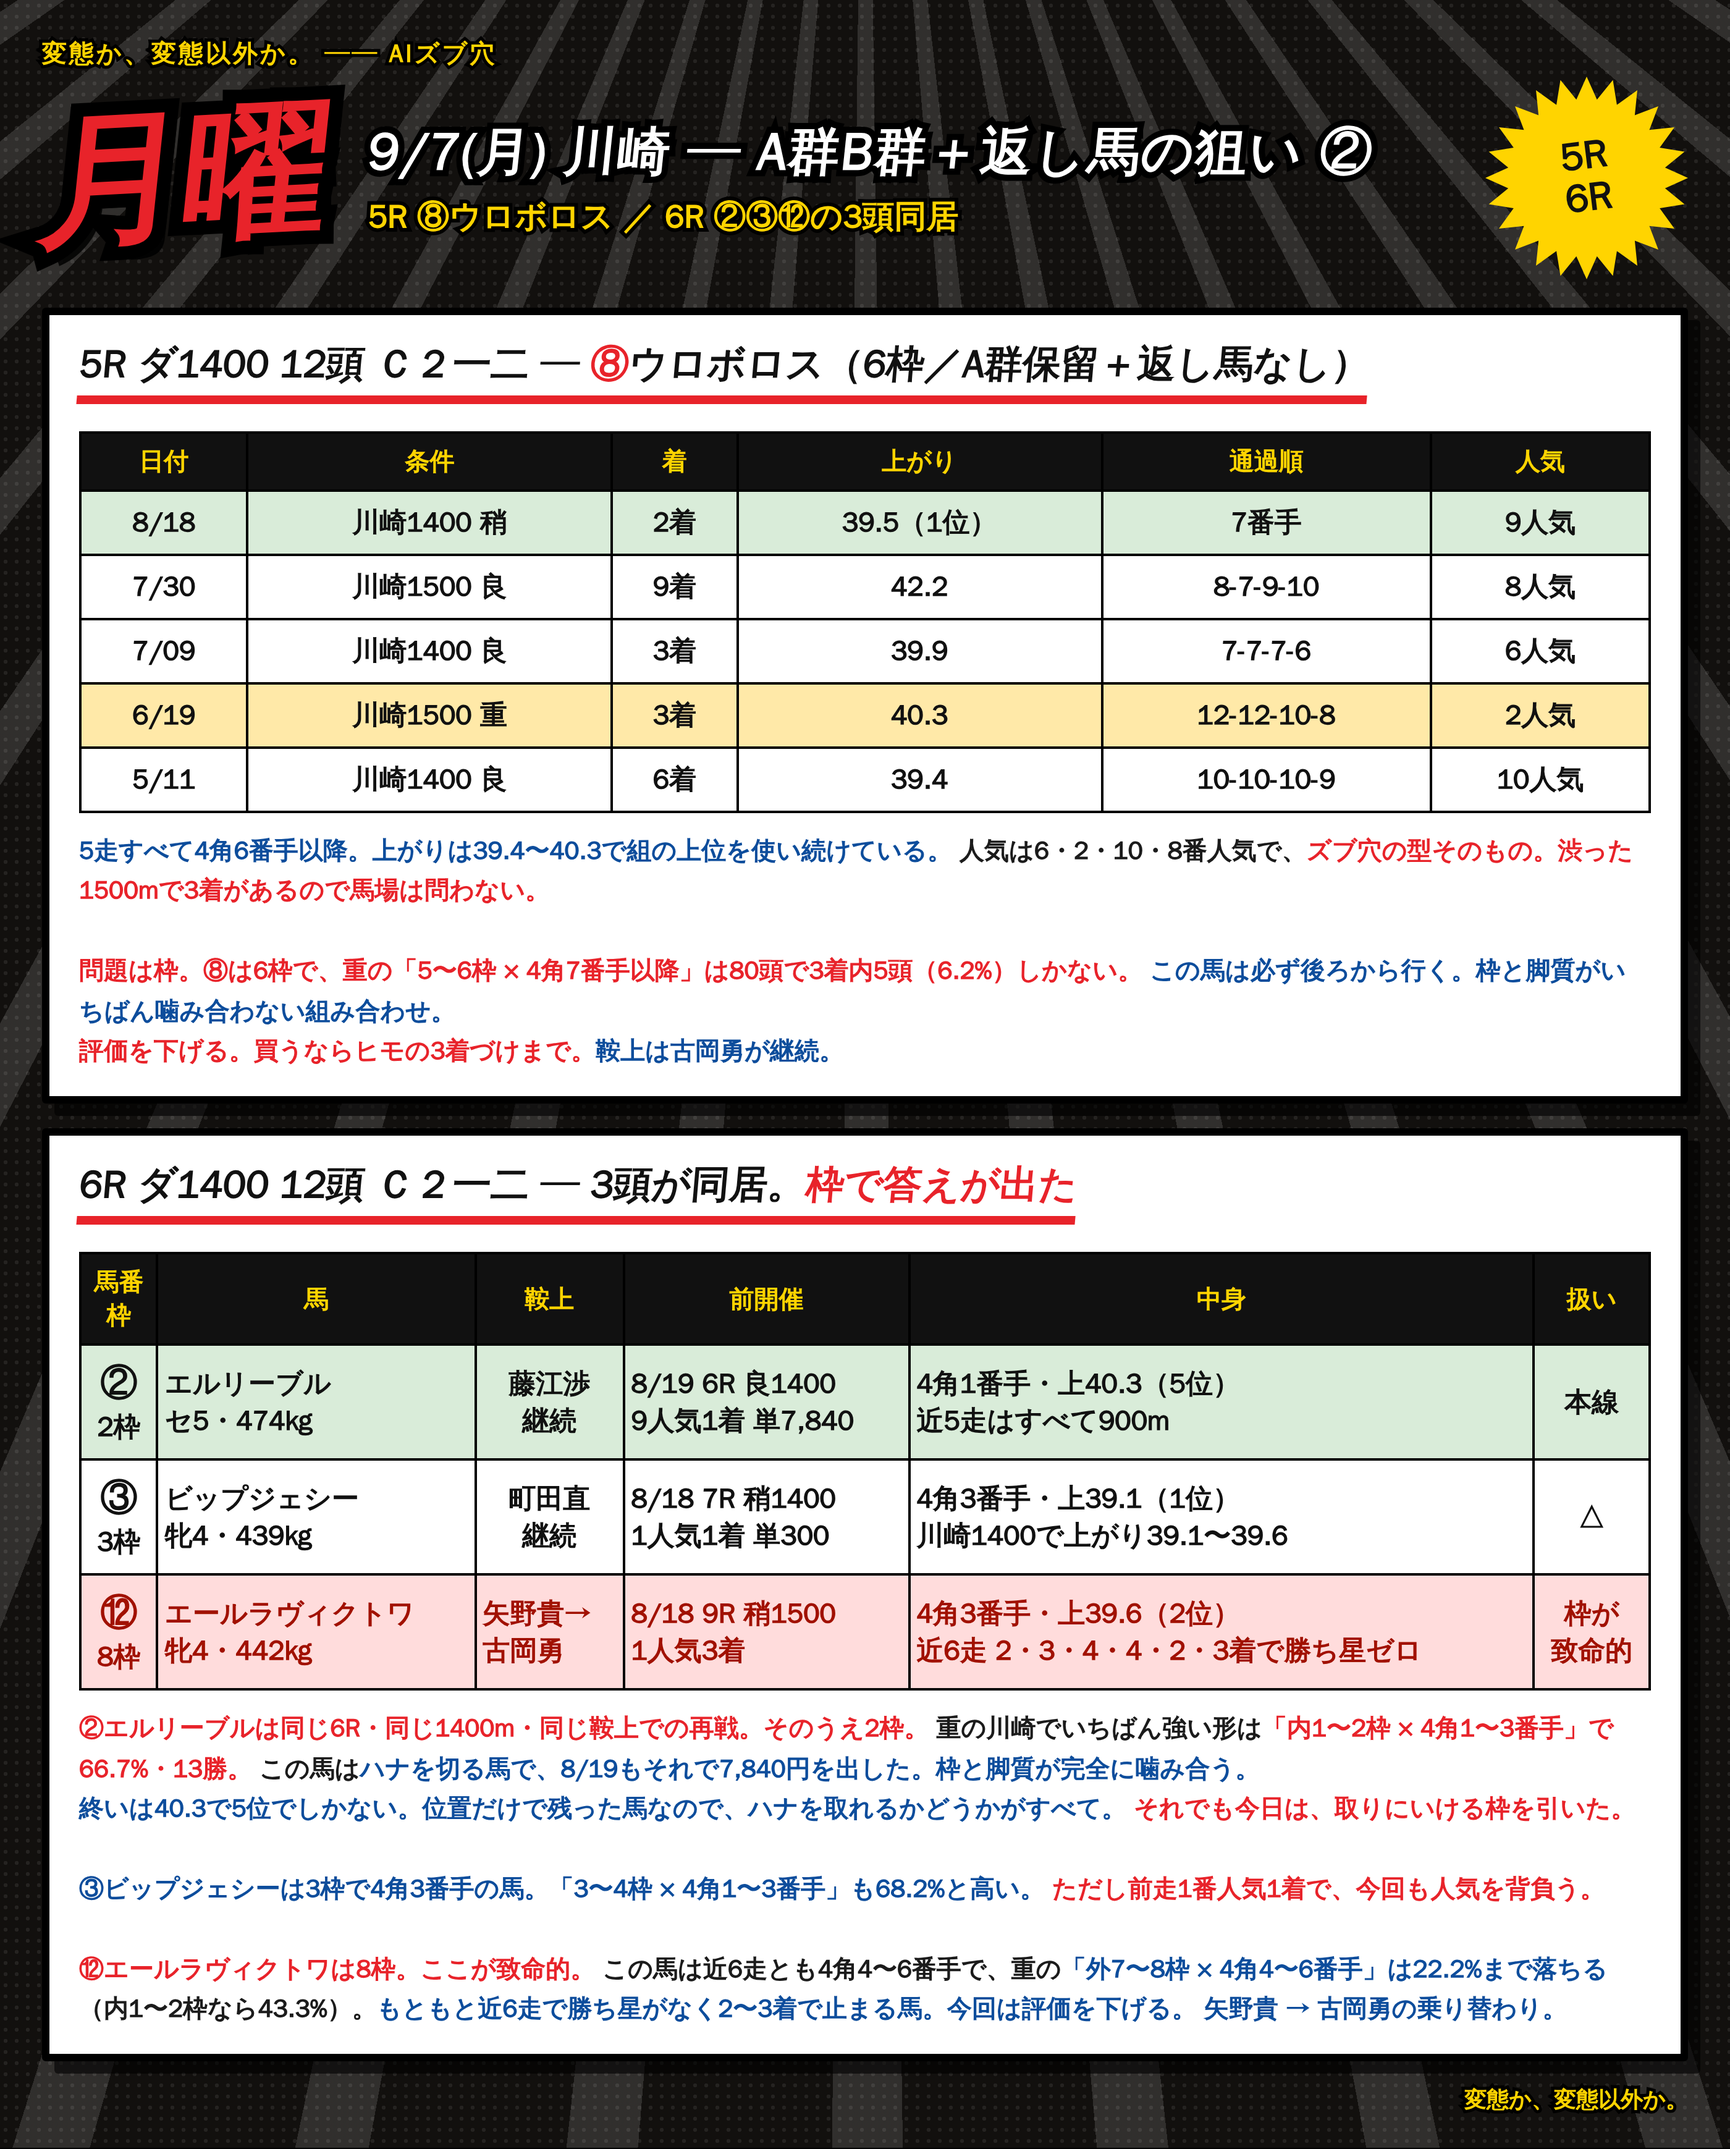
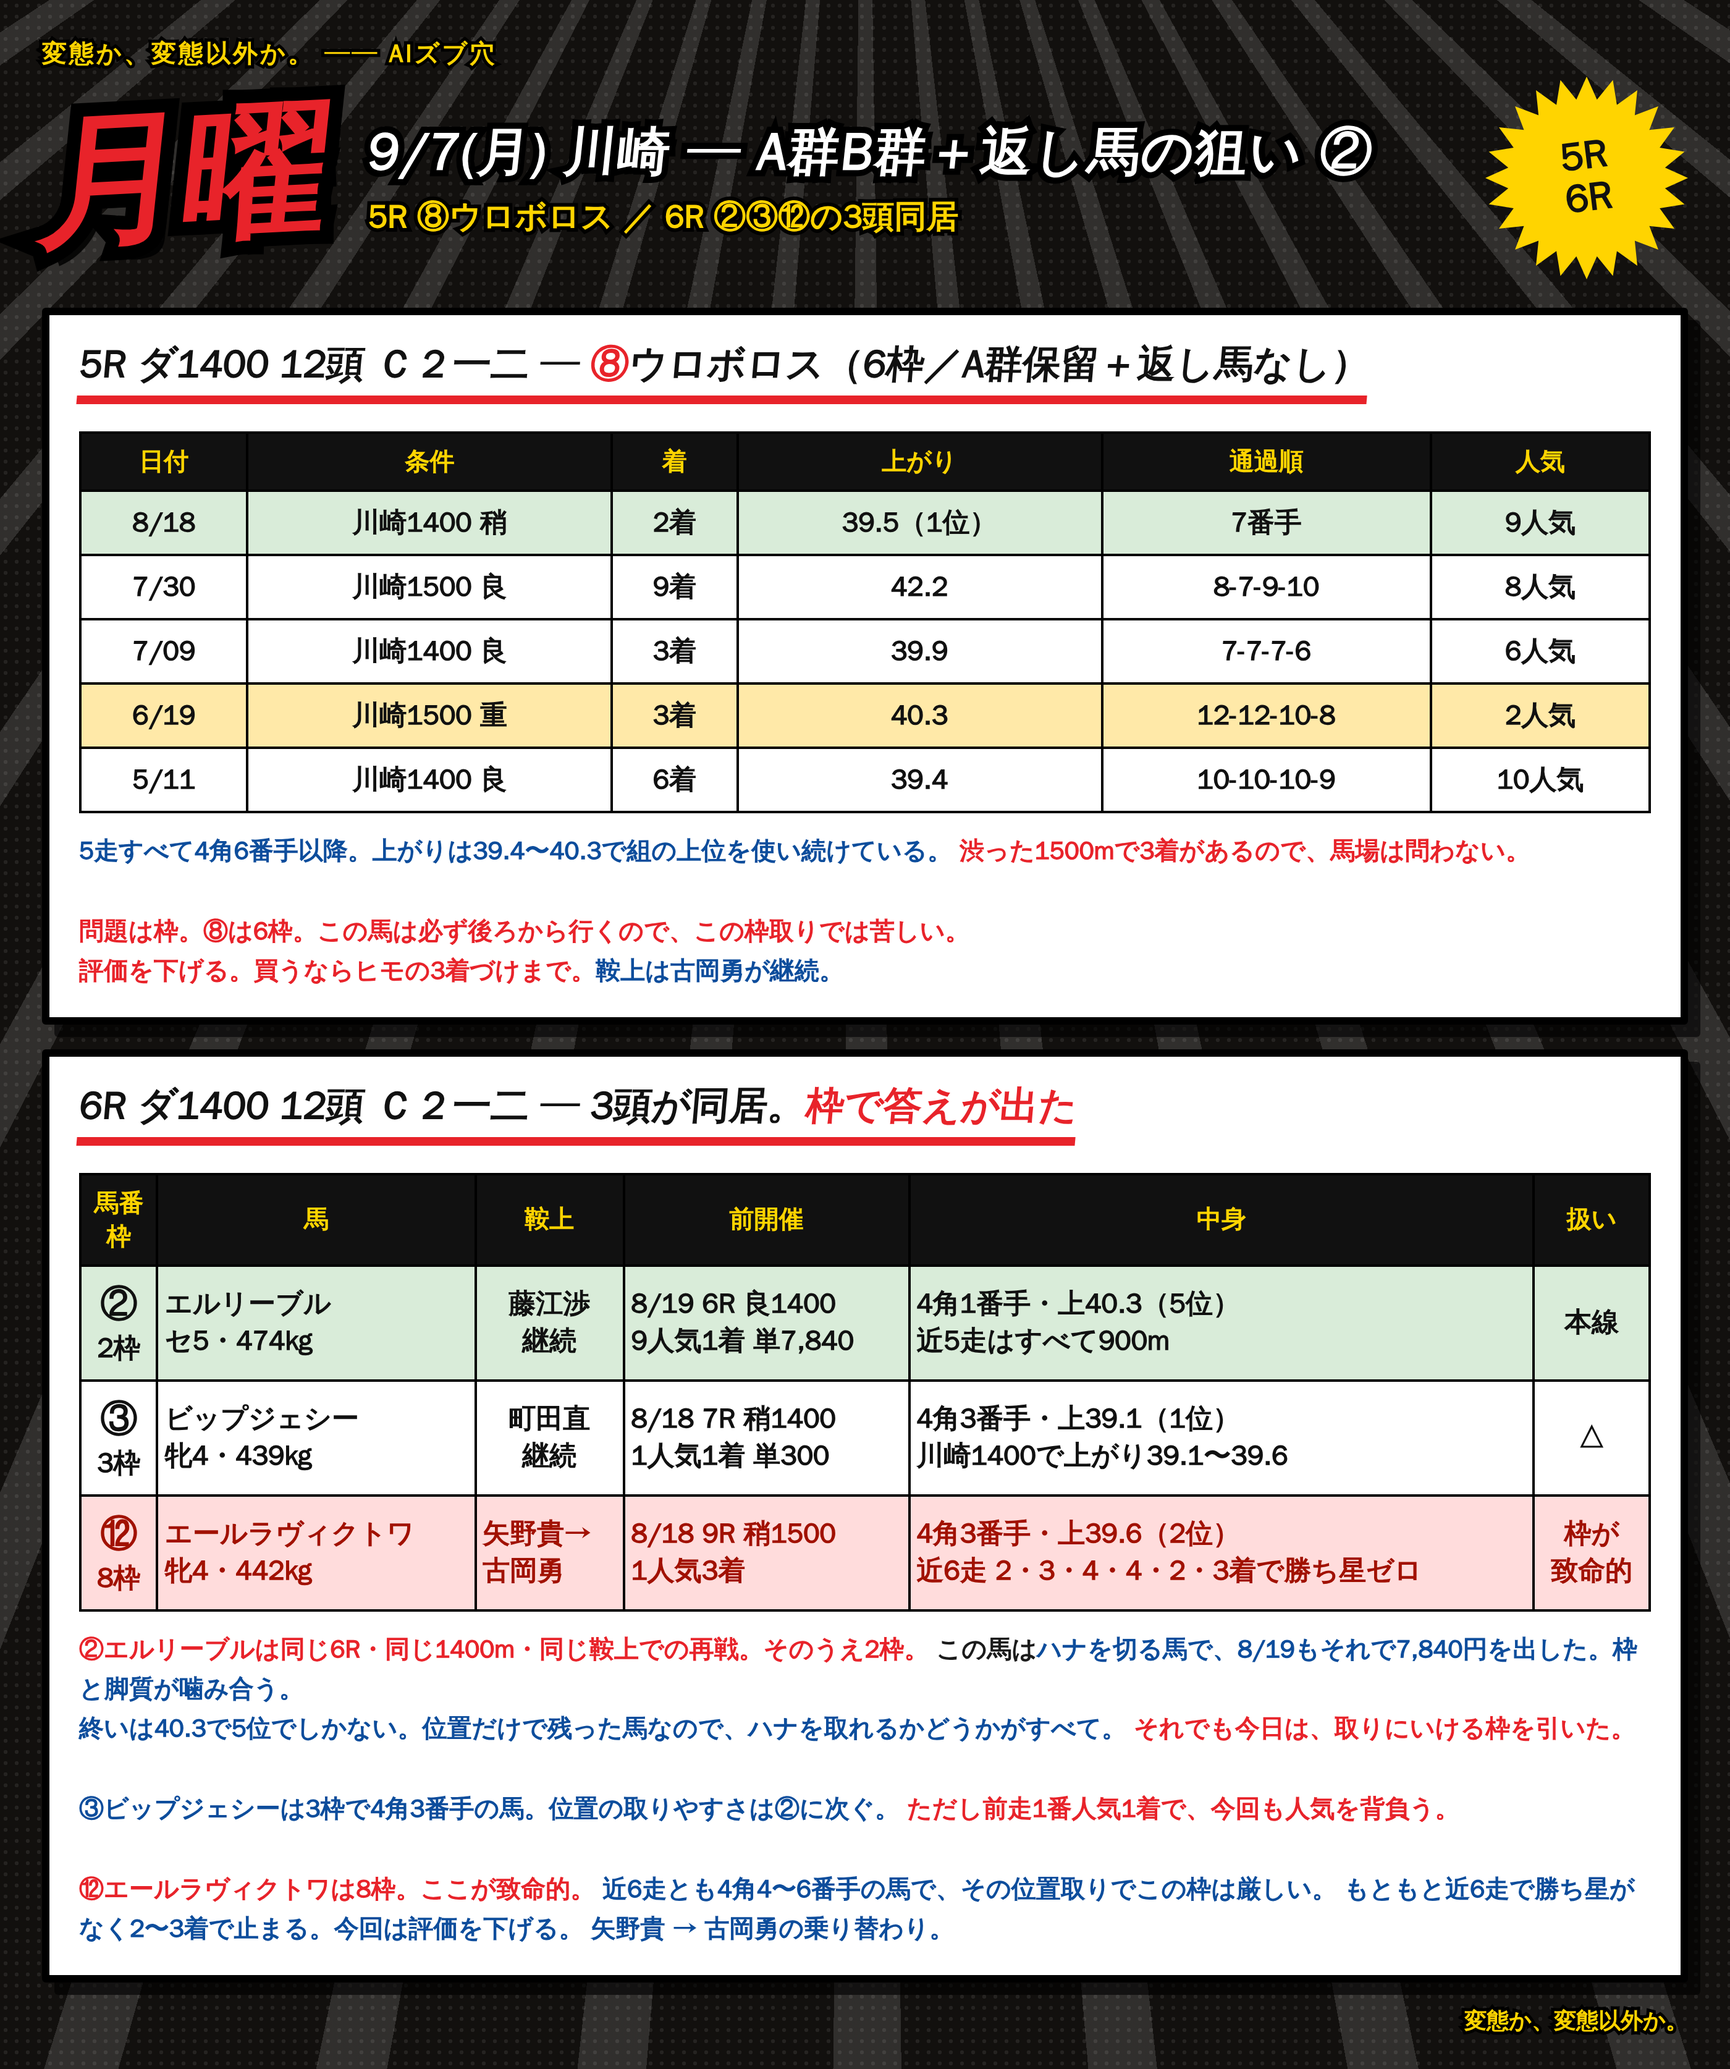
川崎 9/7 2枚目: 選び方が分かる記述を落とす
5R ⑧ウロボロス … 「ズブ穴の型そのもの」と人気の羅列を削除。
枠の話も率を出さず「6枠。後ろから行く馬なので苦しい」に留める。
6R … 枠と位置のクロスの率（66.7%・68.2%・22.2%・43.3%）を削除し、
噛み合う／厳しいという結論だけを残す。
馬の過去走と結論は変更なし。

Claude-Session: https://claude.ai/code/session_01RoHscZkr96FNaxQWvUqgEw

diff --git a/notes/live/2026-09-kawasaki/kw_mon_2.html b/notes/live/2026-09-kawasaki/kw_mon_2.html
@@ -112,9 +112,8 @@
   <tr><td>5/11</td><td>川崎1400 良</td><td>6着</td><td>39.4</td><td>10-10-10-9</td><td>10人気</td></tr>
  </table>
  <div class="note"><b>5走すべて4角6番手以降。上がりは39.4〜40.3で組の上位を使い続けている。</b>
- 人気は6・2・10・8番人気で、<b class="r">ズブ穴の型そのもの。渋った1500mで3着があるので馬場は問わない。</b><br><br>
- <b class="r">問題は枠。⑧は6枠で、重の「5〜6枠 × 4角7番手以降」は80頭で3着内5頭（6.2%）しかない。</b>
- <b>この馬は必ず後ろから行く。枠と脚質がいちばん噛み合わない組み合わせ。</b><br>
+ <b class="r">渋った1500mで3着があるので、馬場は問わない。</b><br><br>
+ <b class="r">問題は枠。⑧は6枠。この馬は必ず後ろから行くので、この枠取りでは苦しい。</b><br>
  <b class="r">評価を下げる。買うならヒモの3着づけまで。</b><b>鞍上は古岡勇が継続。</b></div>
 </div>
 
@@ -128,15 +127,14 @@
  </table>
  <div class="note">
  <b class="r">②エルリーブルは同じ6R・同じ1400m・同じ鞍上での再戦。そのうえ2枠。</b>
- 重の川崎でいちばん強い形は<b class="r">「内1〜2枠 × 4角1〜3番手」で66.7%・13勝。</b>
- この馬は<b>ハナを切る馬で、8/19もそれで7,840円を出した。枠と脚質が完全に噛み合う。</b><br>
+ この馬は<b>ハナを切る馬で、8/19もそれで7,840円を出した。枠と脚質が噛み合う。</b><br>
  <b>終いは40.3で5位でしかない。位置だけで残った馬なので、ハナを取れるかどうかがすべて。</b>
  <b class="r">それでも今日は、取りにいける枠を引いた。</b><br><br>
- <b>③ビップジェシーは3枠で4角3番手の馬。「3〜4枠 × 4角1〜3番手」も68.2%と高い。</b>
+ <b>③ビップジェシーは3枠で4角3番手の馬。位置の取りやすさは②に次ぐ。</b>
  <b class="r">ただし前走1番人気1着で、今回も人気を背負う。</b><br><br>
  <b class="r">⑫エールラヴィクトワは8枠。ここが致命的。</b>
- この馬は近6走とも4角4〜6番手で、重の<b>「外7〜8枠 × 4角4〜6番手」は22.2%まで落ちる</b>
- （内1〜2枠なら43.3%）。<b>もともと近6走で勝ち星がなく2〜3着で止まる馬。今回は評価を下げる。</b>
+ <b>近6走とも4角4〜6番手の馬で、その位置取りでこの枠は厳しい。</b>
+ <b>もともと近6走で勝ち星がなく2〜3着で止まる。今回は評価を下げる。</b>
  <b>矢野貴 → 古岡勇の乗り替わり。</b></div>
 </div>
 
